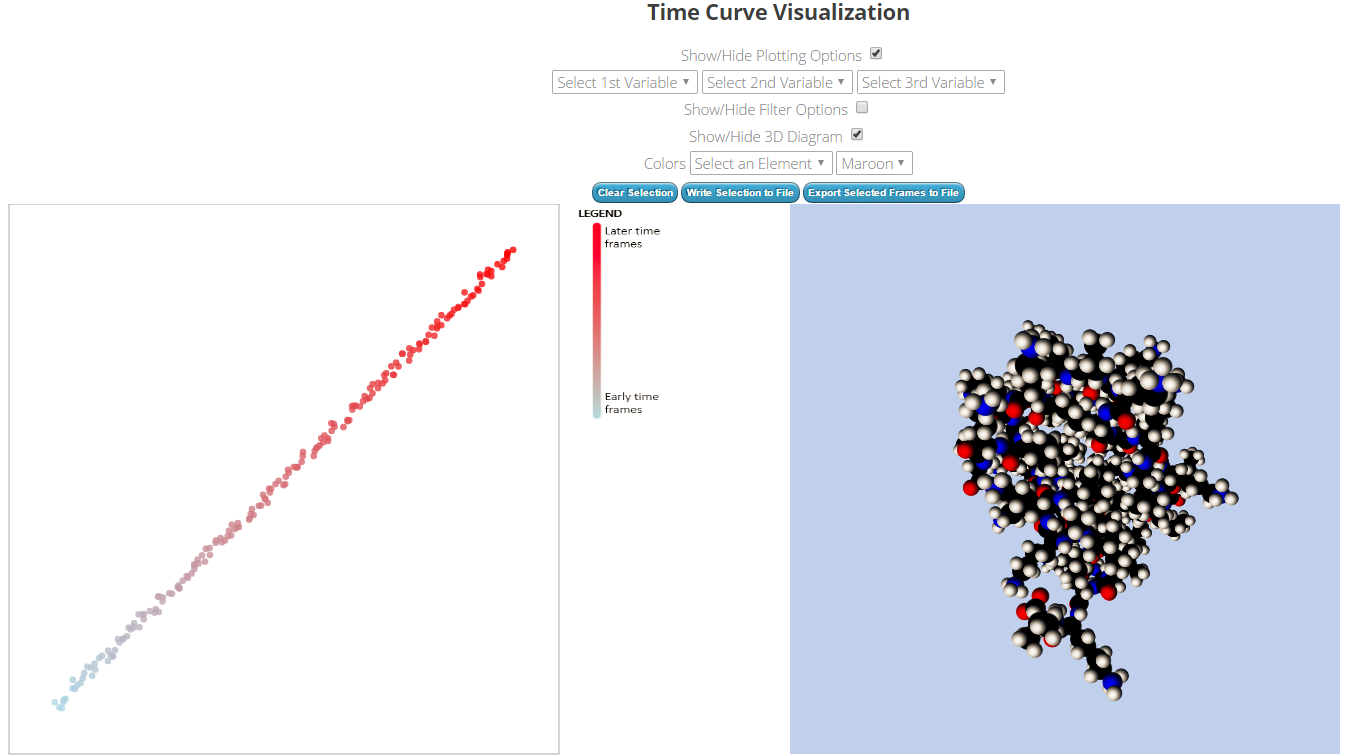
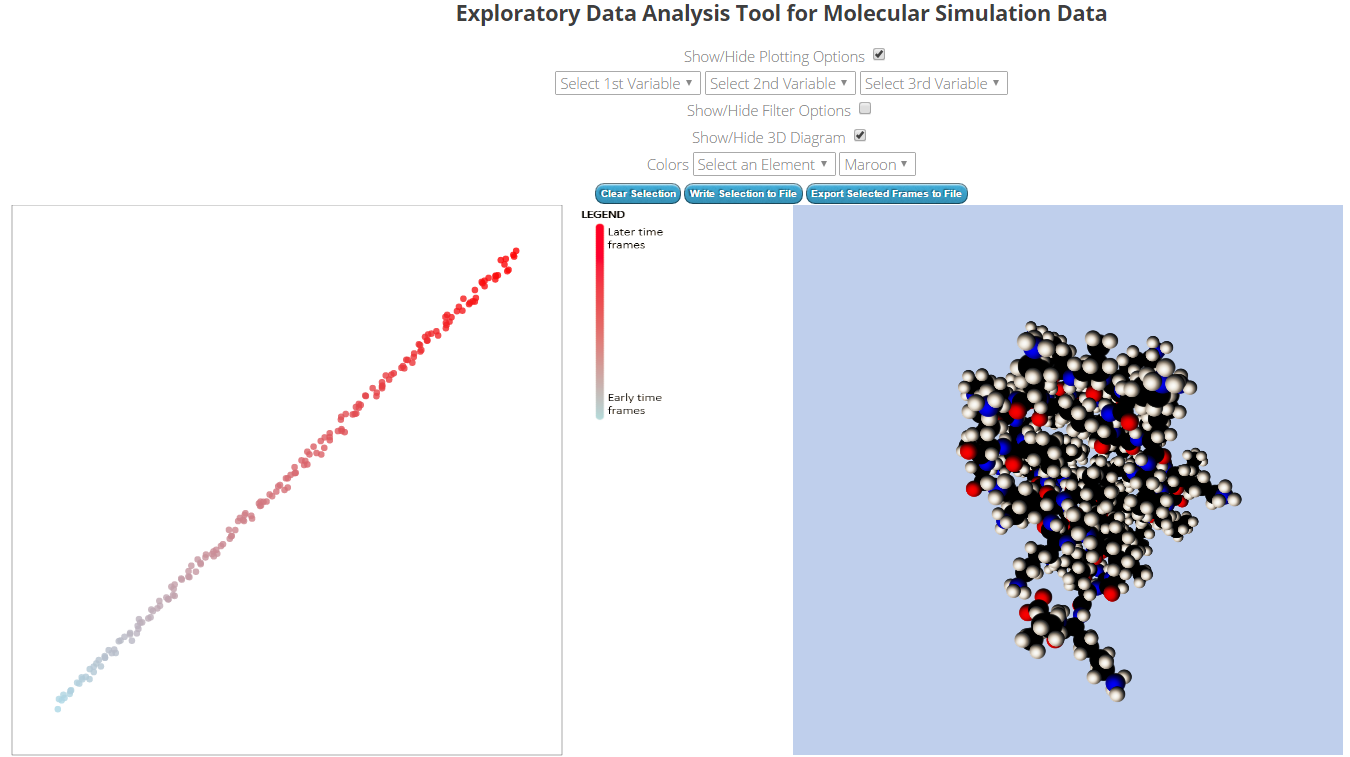
Minor corrections

diff --git a/index.html b/index.html
@@ -10,7 +10,7 @@
 <title>Visualizing Molecular Dynamics Simulation</title>
 <body style="overflow-x: scroll">
             <div align="center">
-            <h3>Time Curve Visualization</h3>
+            <h3>Exploratory Data Analysis Tool for Molecular Simulation Data</h3>
             <div style="width:100%;">
             <div  style="margin-left:10px; width:250px">
                 <label>Show/Hide Plotting Options</label>
